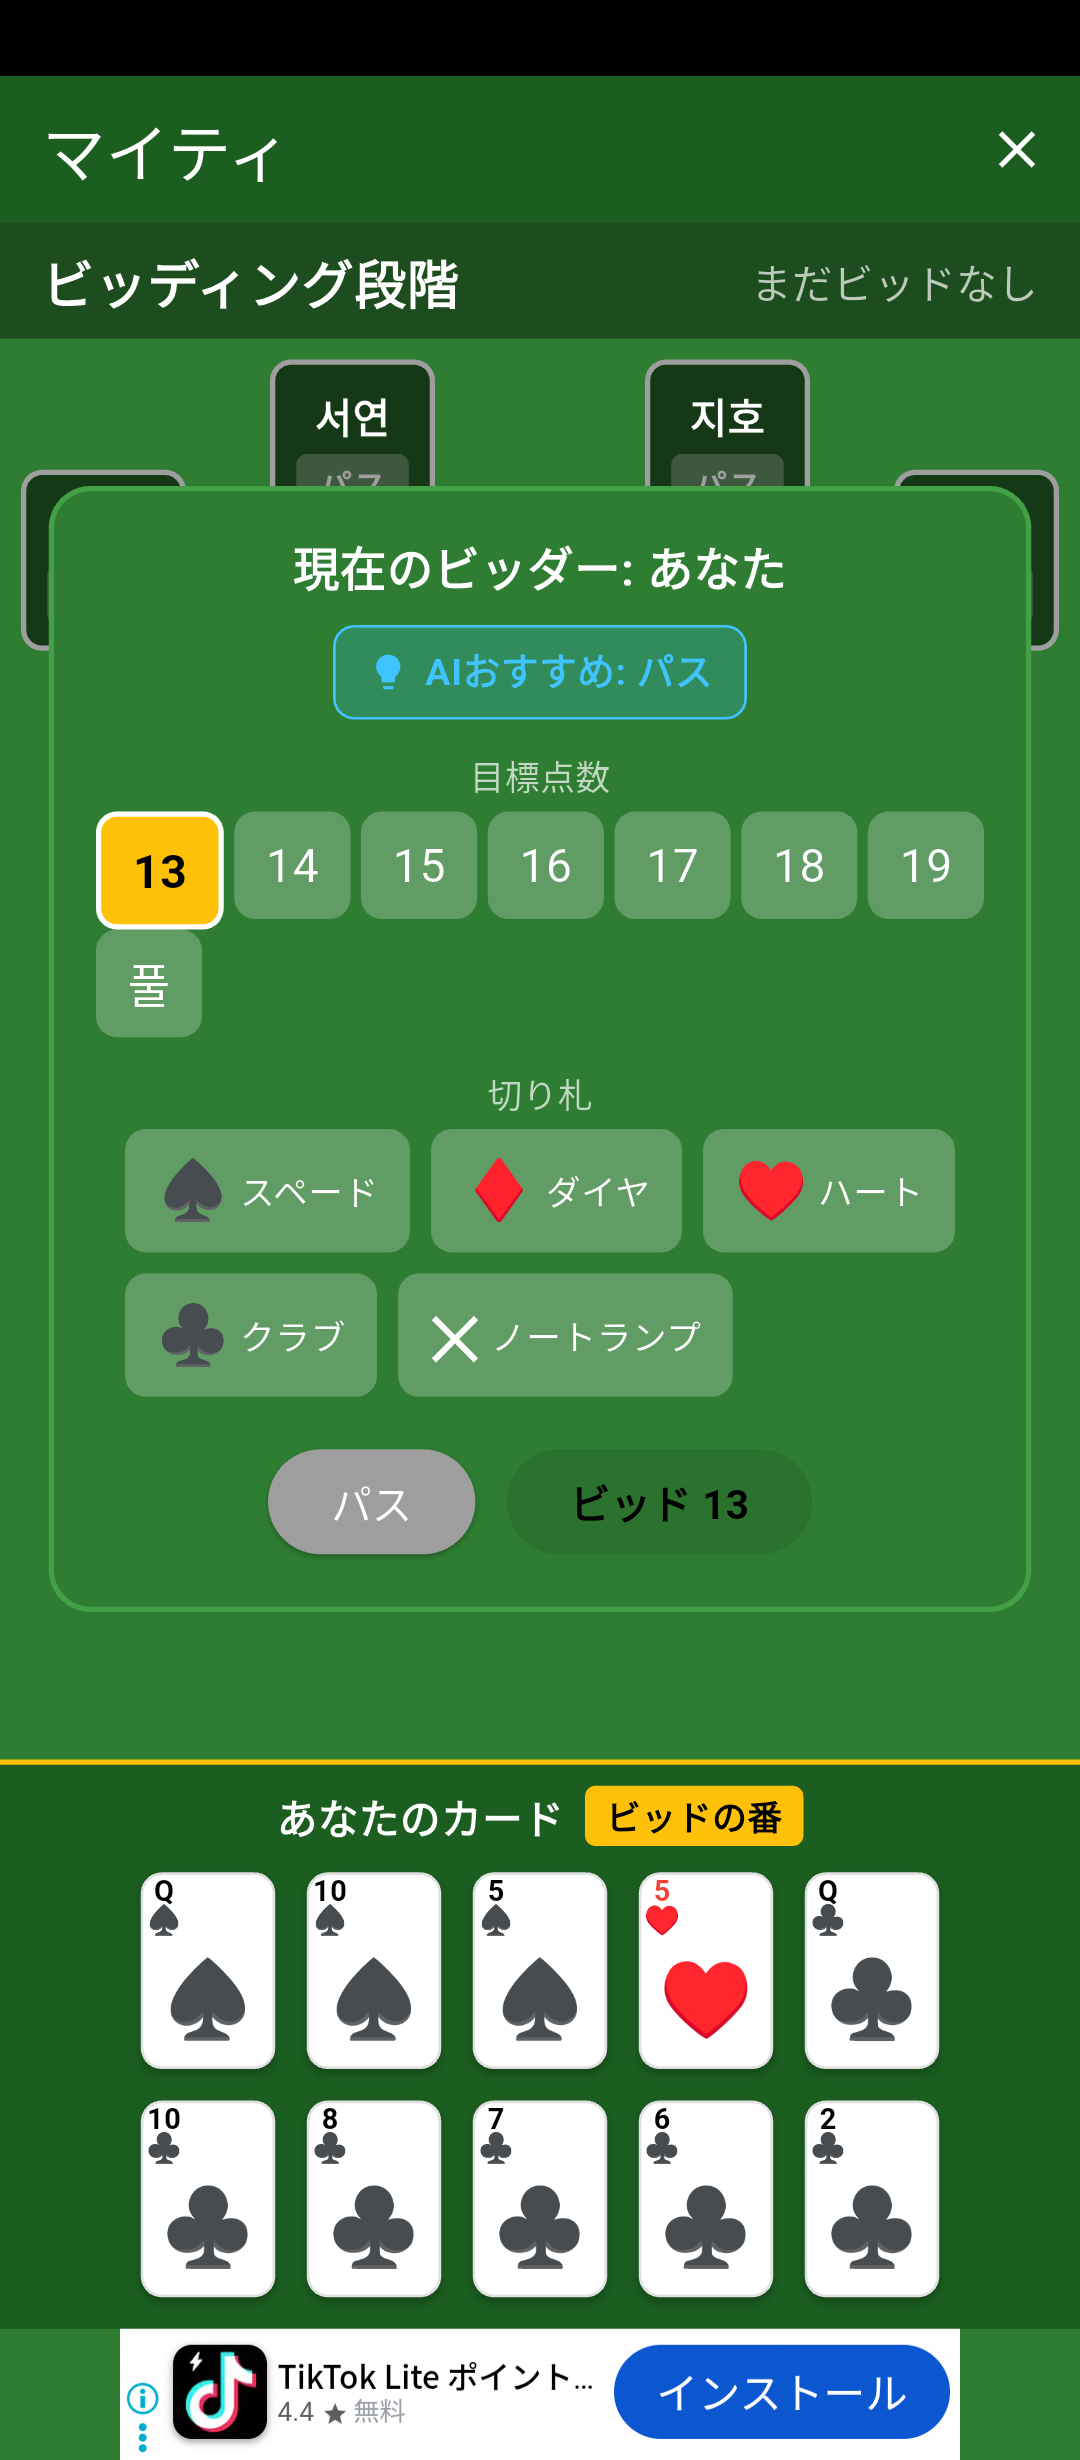
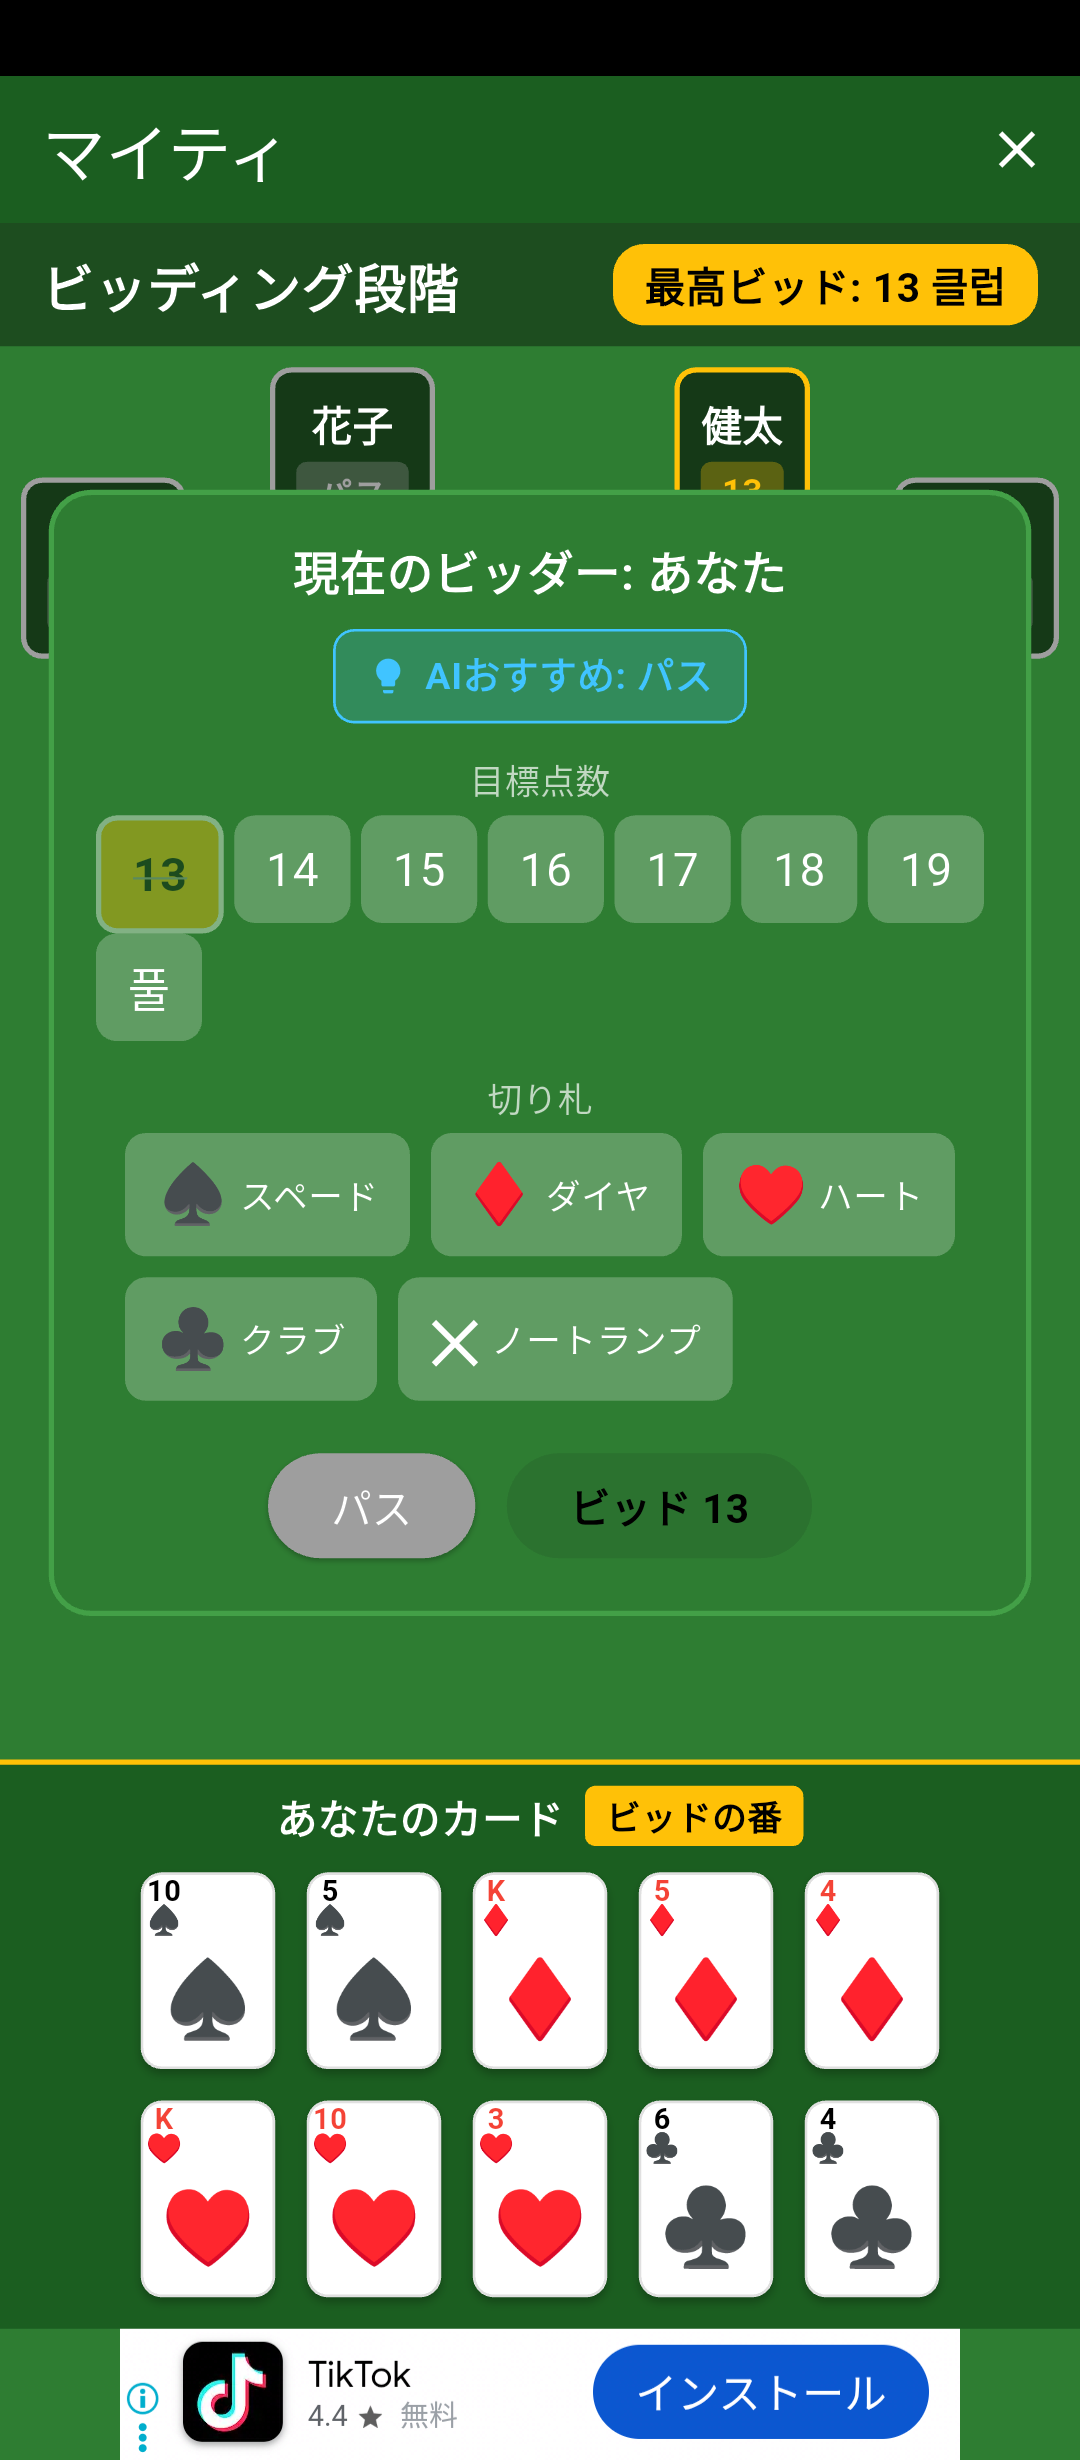
Show suit symbol instead of text in highest bid display
Changed bid display from "13 클럽" to "13 ♣" using suit symbols.
Also localized the "풀" (full/20) bid button.

🤖 Generated with [Claude Code](https://claude.com/claude-code)

diff --git a/lib/screens/game_screen.dart b/lib/screens/game_screen.dart
@@ -30,6 +30,13 @@ class _GameScreenState extends State<GameScreen> {
   bool _statsRecorded = false;
   bool _bidInitialized = false;
 
+  /// 배팅을 무늬 기호로 포맷
+  String _formatBid(Bid bid) {
+    if (bid.passed) return 'Pass';
+    final suitSymbol = bid.suit != null ? _getSuitSymbol(bid.suit!) : 'NT';
+    return '${bid.tricks} $suitSymbol';
+  }
+
   /// 플레이어 ID에 따라 로컬라이즈된 이름 반환
   String _getLocalizedPlayerName(Player player, AppLocalizations l10n) {
     switch (player.id) {
@@ -243,7 +250,7 @@ class _GameScreenState extends State<GameScreen> {
                     borderRadius: BorderRadius.circular(12),
                   ),
                   child: Text(
-                    l10n.highestBid(state.currentBid.toString()),
+                    l10n.highestBid(_formatBid(state.currentBid!)),
                     style: const TextStyle(
                       fontSize: 14,
                       fontWeight: FontWeight.bold,
@@ -463,7 +470,7 @@ class _GameScreenState extends State<GameScreen> {
               spacing: 4,
               children: [
                 for (int i = 13; i <= 20; i++)
-                  _buildBidChip(i, state),
+                  _buildBidChip(i, state, l10n),
               ],
             ),
             const SizedBox(height: 12),
@@ -544,7 +551,7 @@ class _GameScreenState extends State<GameScreen> {
   Suit? _selectedBidSuit = Suit.spade;
   bool _suitManuallySelected = false;  // 사용자가 직접 기루다를 선택했는지
 
-  Widget _buildBidChip(int amount, GameState state) {
+  Widget _buildBidChip(int amount, GameState state, AppLocalizations l10n) {
     final minBid = (state.currentBid?.tricks ?? 12) + 1;
     final isEnabled = amount >= minBid;
     final isSelected = _selectedBidAmount == amount;
@@ -567,7 +574,7 @@ class _GameScreenState extends State<GameScreen> {
                 : (isEnabled ? null : Border.all(color: Colors.grey[700]!, width: 1)),
           ),
           child: Text(
-            amount == 20 ? '풀' : '$amount',
+            amount == 20 ? l10n.fullPoints : '$amount',
             style: TextStyle(
               color: isSelected
                   ? Colors.black
